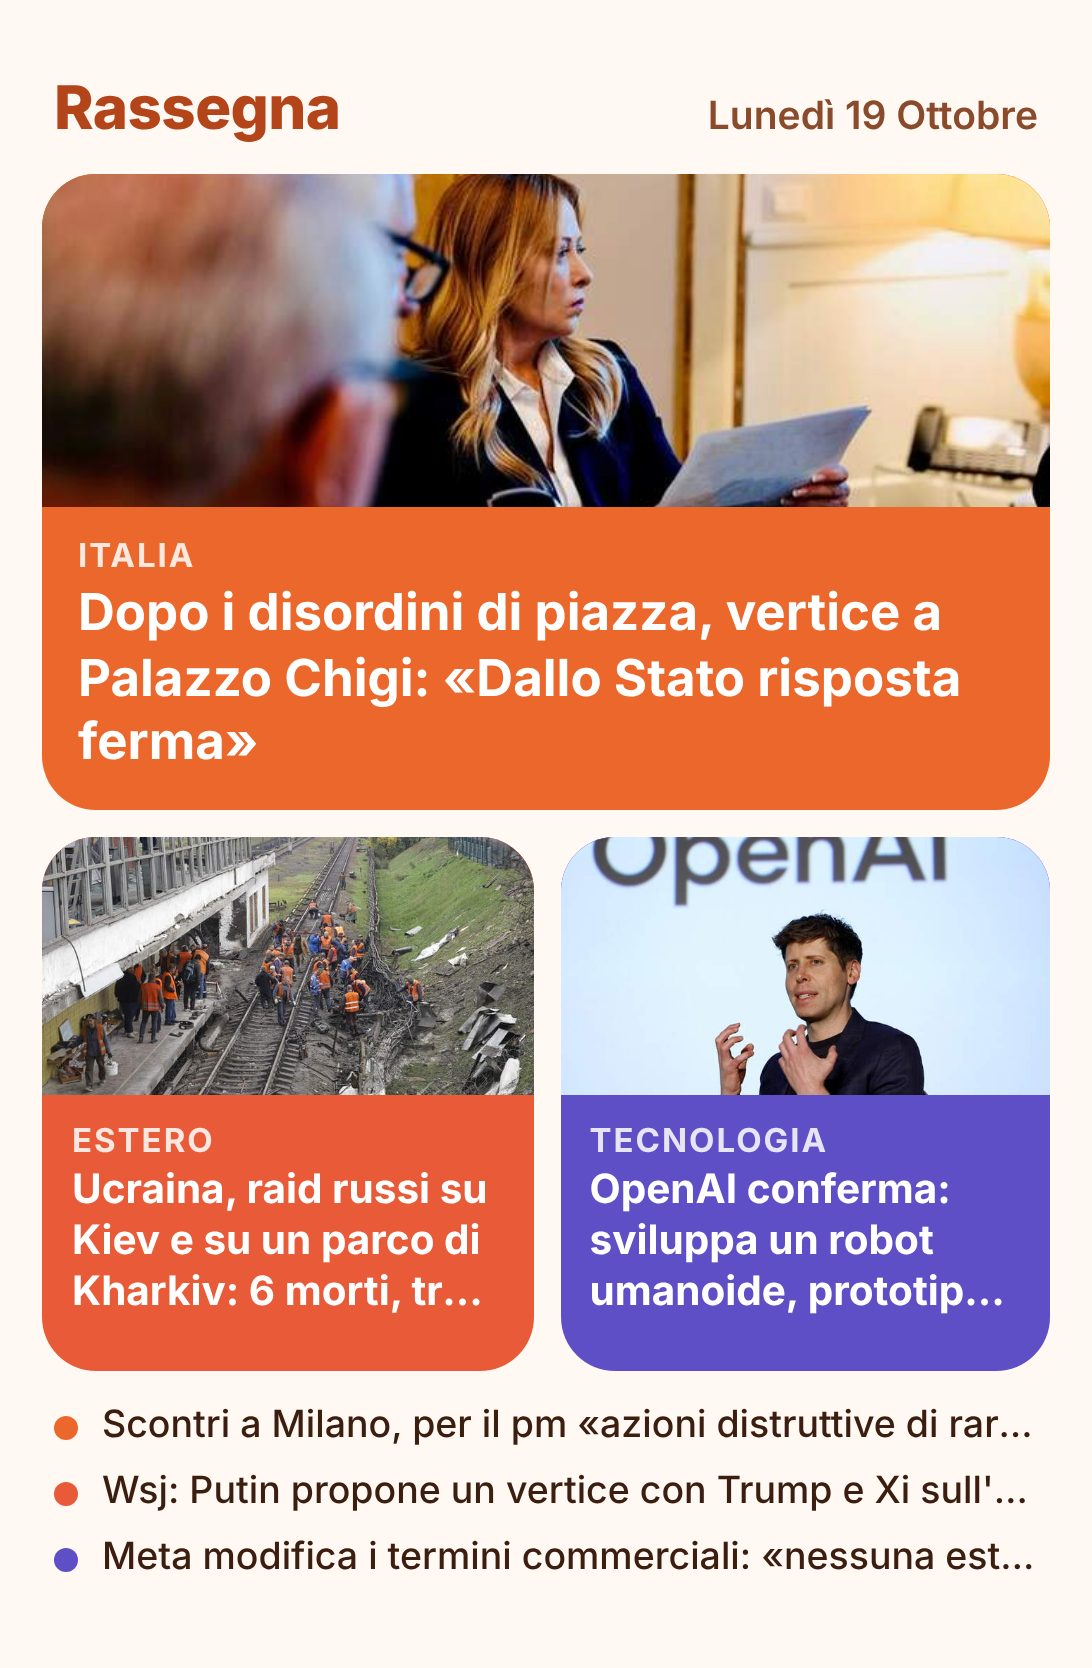
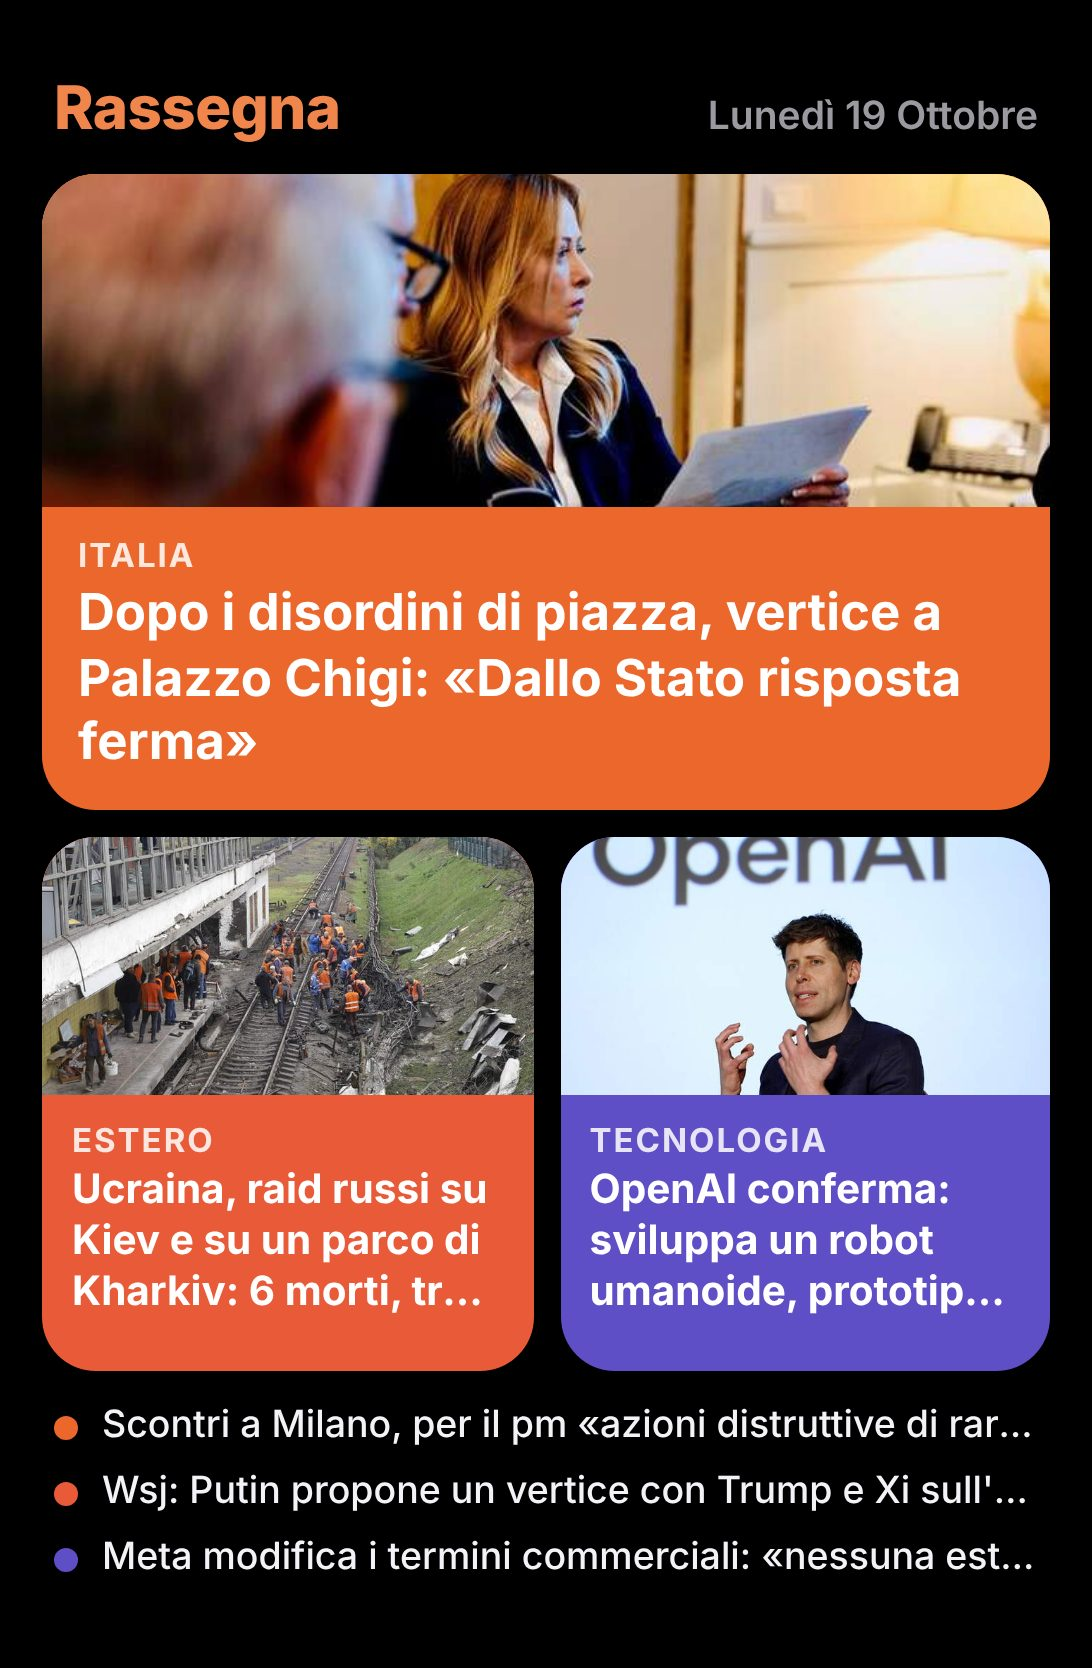
Widget iOS in stile scuro (sfondo nero)
Claude-Session: https://claude.ai/code/session_01BtxTe1kARs33Yk1XmvUkQD

diff --git a/make_widget.py b/make_widget.py
@@ -4,7 +4,7 @@
 Uso:  python3 make_widget.py            (legge index.html, scrive widget.jpg)
       python3 make_widget.py in.html out.jpg
 
-Il widget mostra: testata con data, notizia principale Italia (grande, con foto),
+Stile scuro (sfondo nero, come la modalità scura di iOS). Il widget mostra: testata con data, notizia principale Italia (grande, con foto),
 Estero e Tecnologia affiancate (con foto), una seconda notizia per area in una riga.
 Le foto vengono riprese dalle hero card di index.html (gia' incorporate in base64).
 """
@@ -63,11 +63,11 @@ def build(date, data):
         for k, _, c, _ in SECTIONS if data[k]["second"])
     return f"""<!doctype html><html><head><meta charset="utf-8"><style>
 *{{box-sizing:border-box;margin:0;padding:0}}
-html,body{{width:{W}px;height:{H}px;background:#FFF8F3;font-family:Inter,"DejaVu Sans",sans-serif;-webkit-font-smoothing:antialiased}}
+html,body{{width:{W}px;height:{H}px;background:#000;font-family:Inter,"DejaVu Sans",sans-serif;-webkit-font-smoothing:antialiased}}
 .wrap{{width:{W}px;height:{H}px;display:flex;flex-direction:column;padding:24px 14px 14px}}
 .head{{display:flex;justify-content:space-between;align-items:baseline;padding:0 4px 10px}}
-.brand{{font-size:20px;font-weight:800;color:#B4451A;letter-spacing:-.01em}}
-.date{{font-size:13px;font-weight:600;color:#8A4A2C}}
+.brand{{font-size:20px;font-weight:800;color:#F0864C;letter-spacing:-.01em}}
+.date{{font-size:13px;font-weight:600;color:#9A9AA0}}
 .card{{border-radius:18px;overflow:hidden;display:flex;flex-direction:column;color:#fff}}
 .ph{{flex:1;min-height:0}}
 .body{{padding:9px 12px 11px}}
@@ -78,7 +78,7 @@ html,body{{width:{W}px;height:{H}px;background:#FFF8F3;font-family:Inter,"DejaVu
 .small h2{{font-size:13.5px;line-height:1.25;font-weight:700;margin-top:2px;display:-webkit-box;-webkit-line-clamp:3;-webkit-box-orient:vertical;overflow:hidden}}
 .small .body{{padding:8px 10px 10px;height:92px}}
 .rows{{margin-top:11px;display:flex;flex-direction:column;gap:7px;padding:0 4px}}
-.row{{display:flex;align-items:center;gap:8px;font-size:12.5px;font-weight:500;color:#3B1E10}}
+.row{{display:flex;align-items:center;gap:8px;font-size:12.5px;font-weight:500;color:#F2F2F7}}
 .row span:last-child{{white-space:nowrap;overflow:hidden;text-overflow:ellipsis}}
 .dot{{width:8px;height:8px;border-radius:50%;flex:none}}
 </style></head><body><div class="wrap">
@@ -101,7 +101,10 @@ def main():
     date, data = parse(src.read_text(encoding="utf-8"))
     page_html = build(date, data)
     with sync_playwright() as p:
-        browser = p.chromium.launch()
+        try:
+            browser = p.chromium.launch()
+        except Exception:  # Playwright senza il browser atteso: usa Chromium preinstallato
+            browser = p.chromium.launch(executable_path="/opt/pw-browsers/chromium")
         page = browser.new_page(viewport={"width": W, "height": H}, device_scale_factor=SCALE)
         page.set_content(page_html, wait_until="load")
         page.screenshot(path=str(out), type="jpeg", quality=82, clip={"x": 0, "y": 0, "width": W, "height": H})
